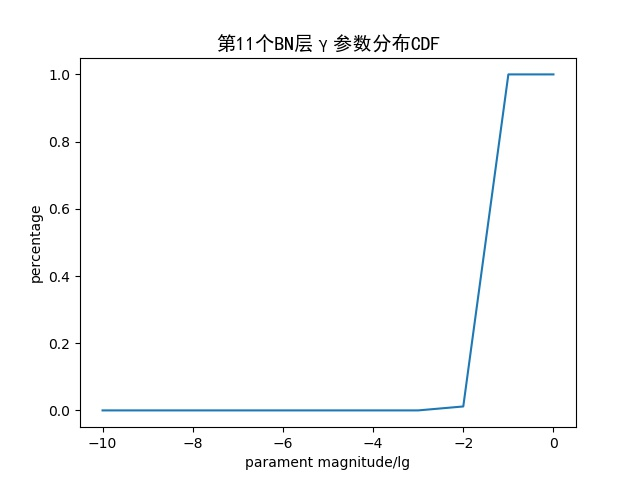
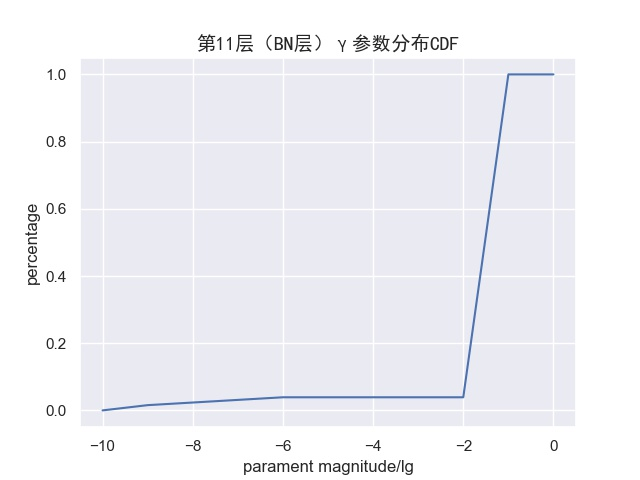
Finished corrcoef analysis, Version 1.4

diff --git a/vgg.py b/vgg.py
@@ -2,12 +2,15 @@ import torch
 import torch.nn as nn
 import torchvision.models as models
 import matplotlib.pyplot as plt
+import seaborn as sns
 import numpy as np
+
 from matplotlib.font_manager import FontProperties
 
 font = FontProperties(fname=r"C:\Windows\Fonts\simhei.ttf", size=14)
 
 
+# 计算参数的数量级
 def powerRes(myNum):
     if myNum < 0:
         myNum = -myNum
@@ -22,71 +25,75 @@ def powerRes(myNum):
     return res
 
 
+# 绘制并保存折线图
+def plotAndSave(w, title, filename):
+    plt.plot(np.arange(-10, 1), w)
+    plt.ylabel('percentage')
+    plt.xlabel('parament magnitude/lg')
+    plt.title(title, FontProperties=font)
+    plt.savefig(filename)
+    plt.close()
+
+
 vgg = models.vgg16_bn()
 pre = torch.load('../vgg16_bn-6c64b313.pth')
 vgg.load_state_dict(pre)
 
-convLayerCnt = 1
-bnLayerCnt = 1
-filters, channels, kernelWidth, kernelHeight = 0, 0, 0, 0
+layerCnt = 1
 paraCnt = np.zeros(11)
+paraCntL1 = np.zeros(11)
+sns.set()
 
 for f in vgg.features:
     if isinstance(f, nn.Conv2d):
-        print(convLayerCnt, '\t', f)
-        filters, channels, kernelWidth, kernelHeight = \
-            f.weight.size()[0], f.weight.size()[1], f.weight.size()[2], f.weight.size()[3]
-        for i in range(0, filters):
-            curFilter1d = f.weight.data[i].view(channels * 9).numpy()
-            for j in curFilter1d:
-                powerResTemp = powerRes(j)
+        print(layerCnt, '\t', f)
+        filterCnt, channelCnt, kernelWidth, kernelHeight = f.weight.size()[0], f.weight.size()[1], f.weight.size()[2], f.weight.size()[3]
+        filterSize = channelCnt * kernelWidth * kernelHeight
+        totalSize = filterCnt * filterSize
+
+        # 将一层中的所有卷积核展平，成为二维数组
+        allFilter1d = f.weight.data.view(filterCnt, filterSize).numpy()
+        # 统计同一层之间卷积核相关系数
+        allFilterSimilarity = np.corrcoef(allFilter1d)
+        # 统计卷积核的权重以及L1范数的分布
+        for i in range(0, filterCnt):
+            L1Norm = 0
+            for j in range(0, filterSize):
+                curWeight = allFilter1d[i][j]
+                L1Norm += abs(curWeight)
+                powerResTemp = powerRes(curWeight)
                 paraCnt[powerResTemp] += 1
-        total = filters * channels * kernelWidth * kernelHeight
-        paraCnt /= total
-        plt.plot(np.arange(-10, 1), paraCnt[0:11])
-        plt.ylabel('percentage')
-        plt.xlabel('parament magnitude/lg')
-        plt.title('第' + str(convLayerCnt) + '个卷积层卷积核参数分布PDF', FontProperties=font)
-        plt.savefig("./fig/" + str(convLayerCnt) + "_conv_pdf.jpg")
+            powerResTemp = powerRes(L1Norm)
+            paraCntL1[powerResTemp] += 1
+        paraCnt /= totalSize
+        paraCntL1 /= filterCnt
+        layerCntStr = str(layerCnt)
+        # 绘制相关系数热图
+        ax = sns.heatmap(allFilterSimilarity)
+        plt.title("第" + layerCntStr + "层（卷积层）卷积核相关系数热图", FontProperties=font)
+        plt.savefig("./fig/" + layerCntStr + "_conv_similarity_heatmap.jpg")
         plt.close()
+        # 绘制参数及L1范数分布图
+        plotAndSave(paraCnt, "第" + layerCntStr + "层（卷积层）卷积核参数分布PDF", "./fig/" + layerCntStr + "_conv_para_pdf.jpg")
+        plotAndSave(paraCntL1, "第" + layerCntStr + "层（卷积层）卷积核L1范数分布PDF", "./fig/" + layerCntStr + "_conv_L1norm_pdf.jpg")
         for i in range(1, len(paraCnt)):
             paraCnt[i] += paraCnt[i - 1]
-        plt.plot(np.arange(-10, 1), paraCnt[0:11])
-        plt.ylabel('percentage')
-        plt.xlabel('parament magnitude/lg')
-        plt.title('第' + str(convLayerCnt) + '个卷积层卷积核参数分布CDF', FontProperties=font)
-        plt.savefig("./fig/" + str(convLayerCnt) + "_conv_cdf.jpg")
-        plt.close()
-        convLayerCnt += 1
+            paraCntL1[i] += paraCntL1[i - 1]
+        plotAndSave(paraCnt, "第" + layerCntStr + "层（卷积层）卷积核参数分布CDF", "./fig/" + layerCntStr + "_conv_para_cdf.jpg")
+        plotAndSave(paraCntL1, "第" + layerCntStr + "层（卷积层）卷积核L1范数分布CDF", "./fig/" + layerCntStr + "_conv_L1norm_cdf.jpg")
     elif isinstance(f, nn.BatchNorm2d):
-        print(bnLayerCnt, '\t', f)
-        filters = f.weight.size()[0]
-        tmp = f.weight.data.view(filters).numpy()
+        print(layerCnt, '\t', f)
+        weightCnt = f.weight.size()[0]
+        tmp = f.weight.data.view(weightCnt).numpy()
         for i in tmp:
             powerResTemp = powerRes(i)
             paraCnt[powerResTemp] += 1
-        paraCnt /= filters
-        plt.plot(np.arange(-10, 1), paraCnt[0:11])
-        plt.ylabel('percentage')
-        plt.xlabel('parament magnitude/lg')
-        plt.title('第' + str(convLayerCnt) + '个BN层γ参数分布PDF', FontProperties=font)
-        plt.savefig("./fig/" + str(convLayerCnt) + "_γ_pdf.jpg")
-        plt.close()
+        paraCnt /= weightCnt
+        # 绘制参数分布图
+        plotAndSave(paraCnt, "第" + layerCntStr + "层（BN层）γ参数分布PDF", "./fig/" + layerCntStr + "_γ_pdf.jpg")
         for i in range(1, len(paraCnt)):
             paraCnt[i] += paraCnt[i - 1]
-        plt.plot(np.arange(-10, 1), paraCnt[0:11])
-        plt.ylabel('percentage')
-        plt.xlabel('parament magnitude/lg')
-        plt.title('第' + str(convLayerCnt) + '个BN层γ参数分布CDF', FontProperties=font)
-        plt.savefig("./fig/" + str(convLayerCnt) + "_γ_cdf.jpg")
-        plt.close()
-        bnLayerCnt += 1
+        plotAndSave(paraCnt, "第" + layerCntStr + "层（BN层）γ参数分布CDF", "./fig/" + layerCntStr + "_γ_cdf.jpg")
+    layerCnt += 1
     paraCnt = np.zeros(11)
-
-# a = torch.tensor([[1.0, 2.0, 3.0], [4.0, 5.0, 6.0], [3.0, 3.0, 3.0]])
-# b = torch.tensor([[2.0, 4.0, 6.0], [4.0, 5.0, 6.0], [-3.0, -3.0, -3.0]])
-# print(torch.cosine_similarity(a, b, dim=1))
-# a.resize_(9)
-# b.resize_(9)
-# print(torch.cosine_similarity(a, b, dim=0))
-# print(torch.cosine_similarity(vgg.features[0].weight.data[0][0].view(9), vgg.features[0].weight.data[0][1].view(9), dim=0))
+    paraCntL1 = np.zeros(11)
